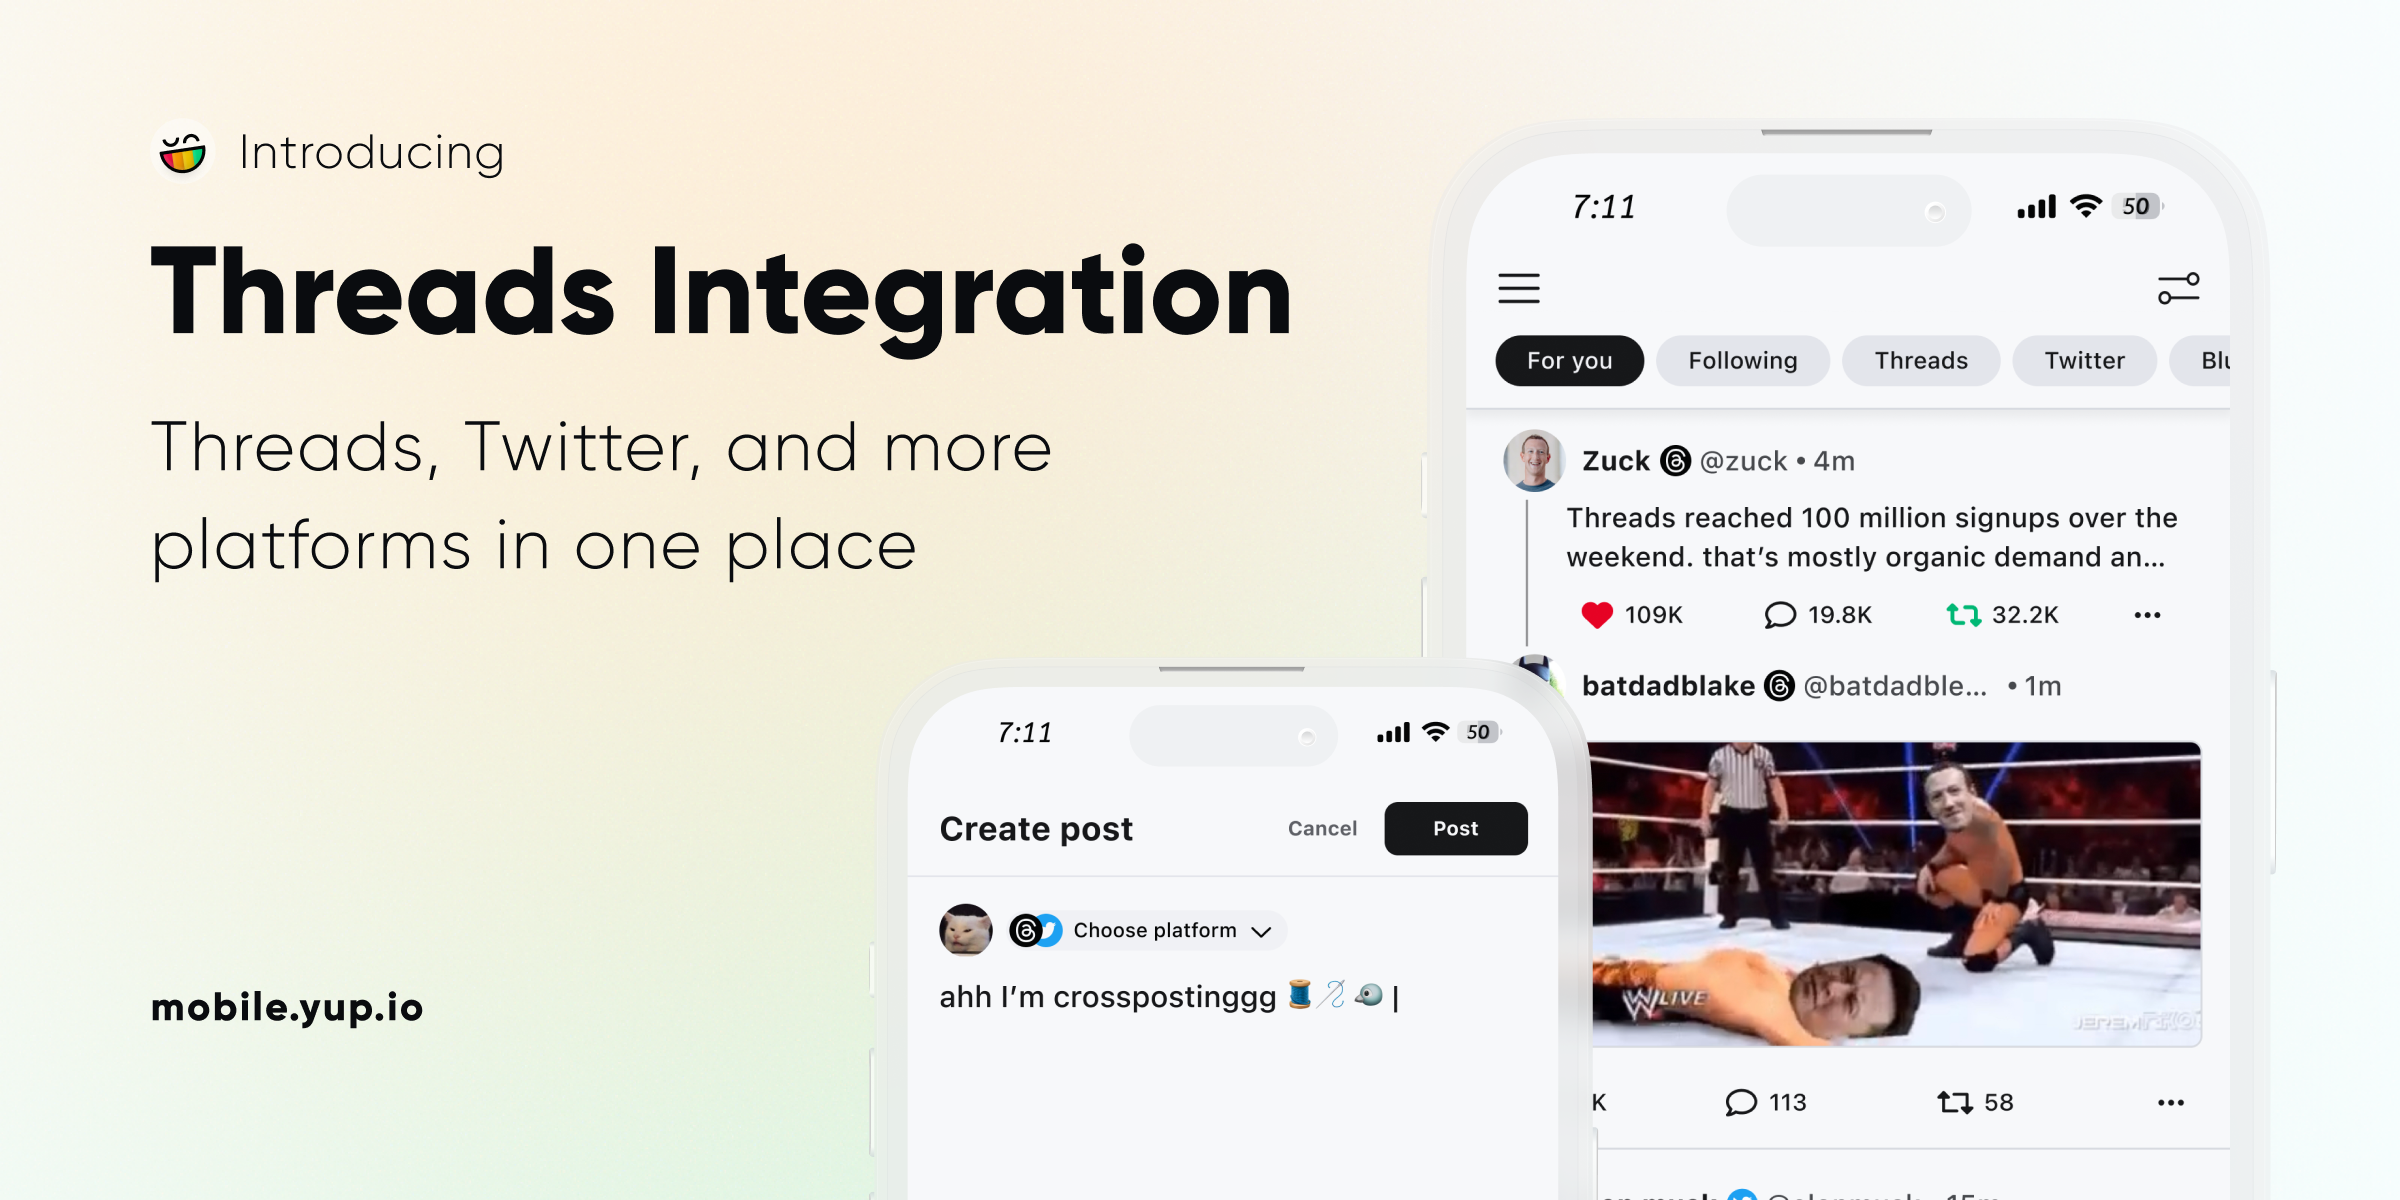
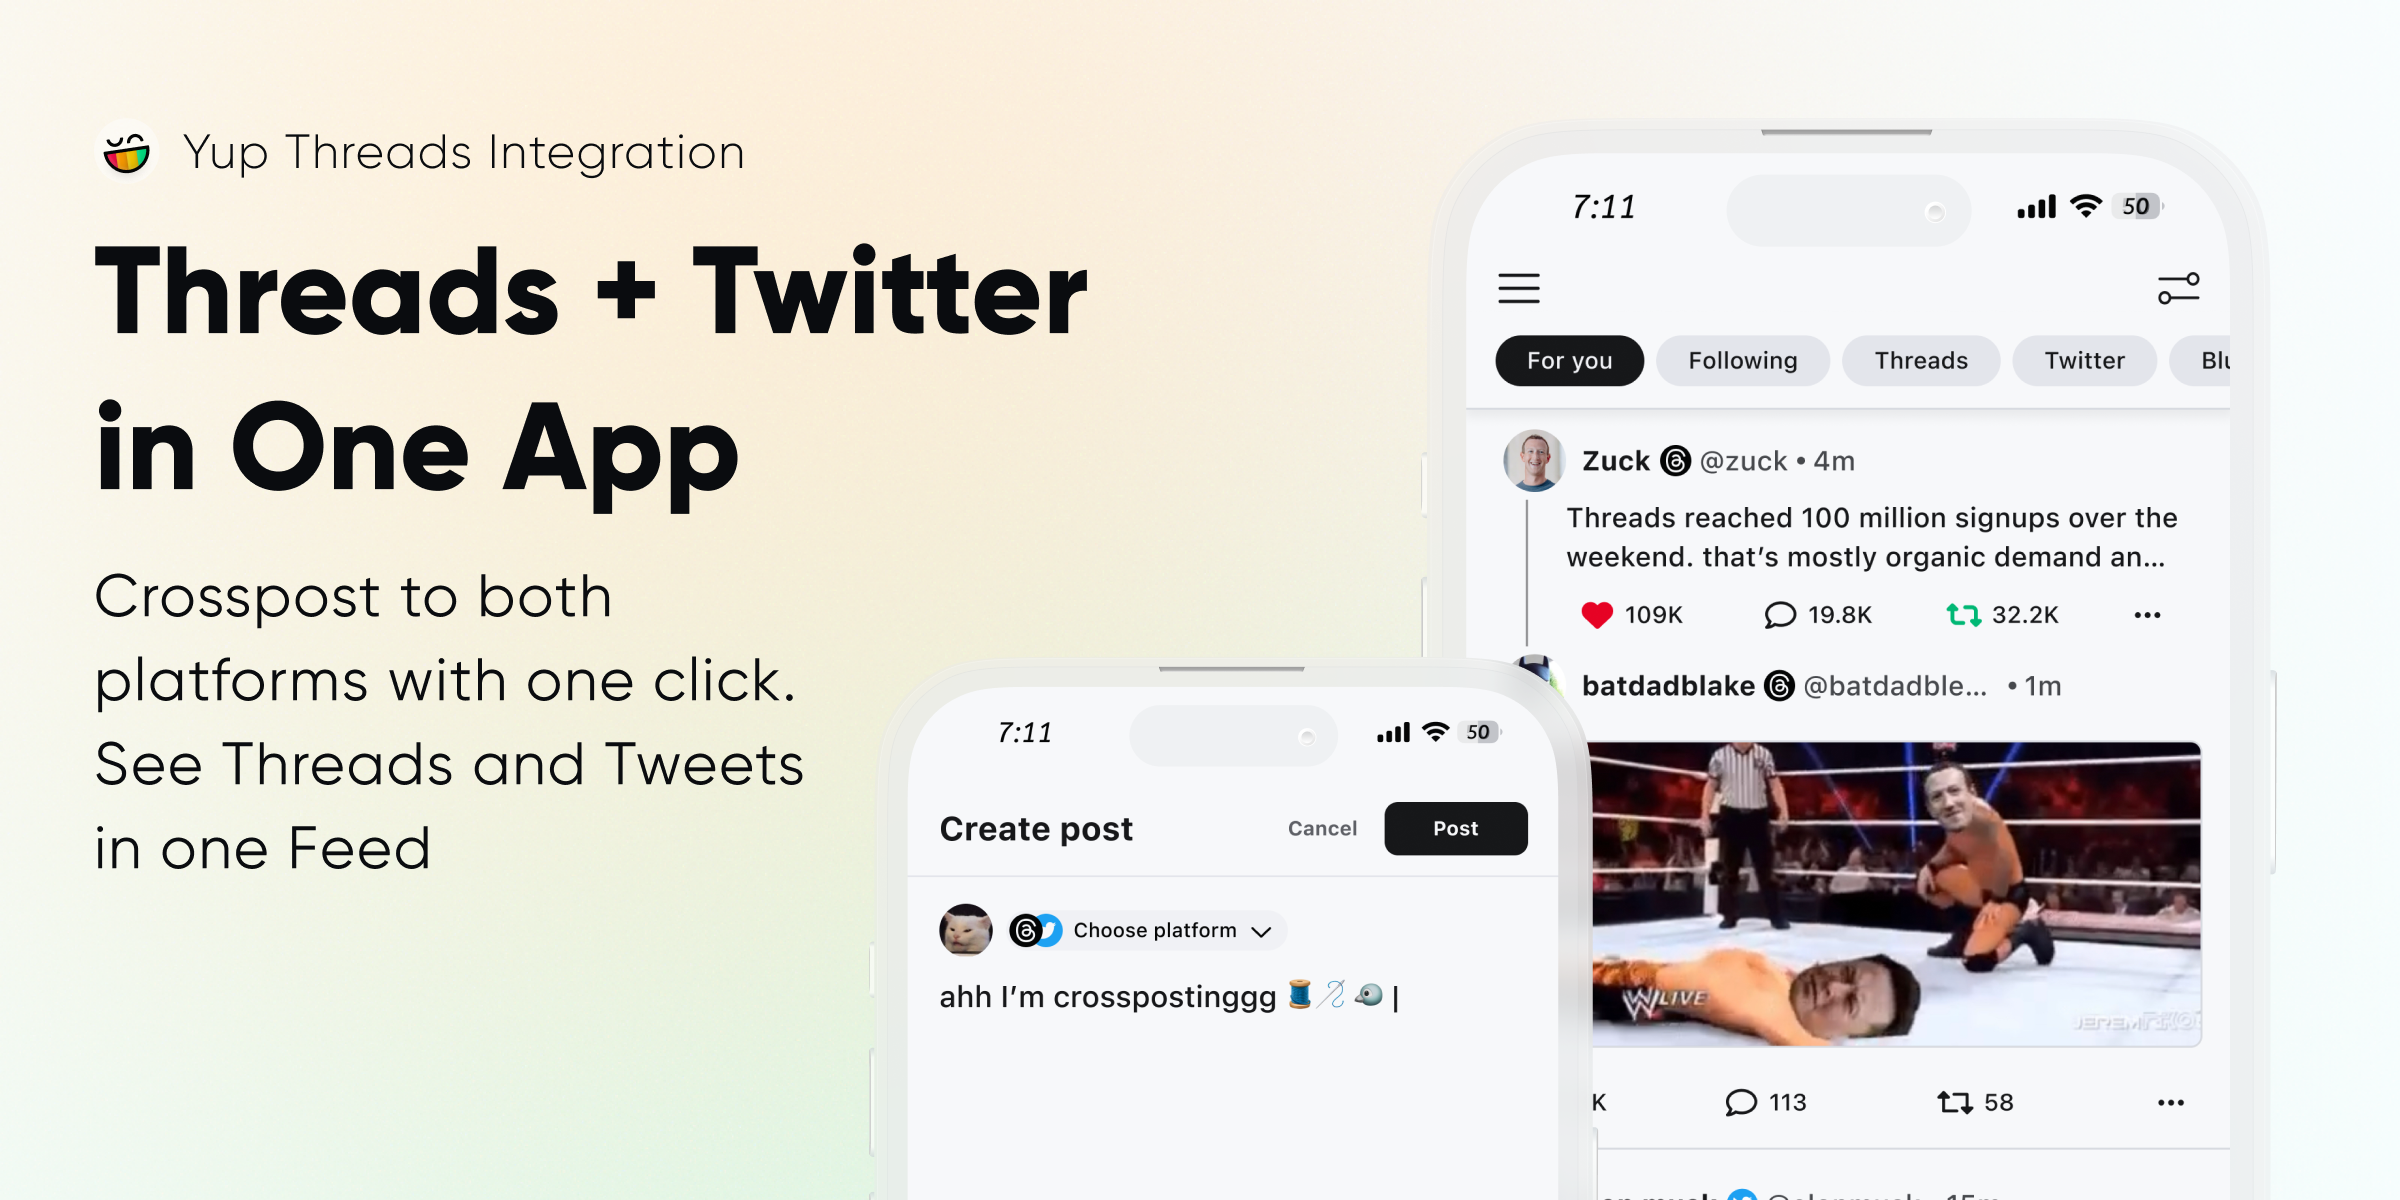
updating to match

diff --git a/threads.html b/threads.html
@@ -20,7 +20,10 @@
       property="og:image"
       content="https://yup.io/assets/thumbnailthreads.png"
     />
-    <meta property="og:site_name" content="Threads + Twitter in 1 App | Yup" />
+    <meta
+      property="og:site_name"
+      content="Threads + Twitter in One App | Yup"
+    />
     <meta
       name="Description"
       content="Crosspost to both platforms with one click. Threads and Tweets in one feed, plus so much more."
@@ -227,6 +230,19 @@
       }
       .fade-out {
         opacity: 0;
+      }
+      .mobileAnimation {
+        border-radius: 5rem;
+      }
+      @media screen and (max-width: 600px) {
+        .mobileAnimation {
+          border-radius: 4.2rem !important;
+        }
+      }
+      @media screen and (max-width: 1024px) {
+        .mobileAnimation {
+          border-radius: 8rem;
+        }
       }
     </style>
   </head>
@@ -477,7 +493,7 @@
                     </div>
                   </div>
                   <h1 class="margin-top-1 margin-bottom-2 ae-1 fromLeft">
-                    Threads + Twitter <br />in 1 App
+                    Threads + Twitter <br />in One App
                   </h1>
                   <p class="ae-2 fromLeft hideForPhablet">
                     <span class="opacity-6"
@@ -493,7 +509,7 @@
                       Threads and Tweets in one feed, plus so much more.</span
                     >
                   </p>
-                  <a href="https://yupio.typeform.com/to/lXQyUc5e">
+                  <a href="https://yupio.typeform.com/to/b3dFP7cJ">
                     <button
                       class="button rounded-square small gradient ae-3 main margin-bottom-2 hideForPhablet"
                       style="
@@ -513,22 +529,46 @@
                 <li class="col-1-12"></li>
                 <li class="col-6-12" style="align-items: center">
                   <div
-                    class="ae-4 fromCenter"
+                    class="ae-4 fromCenter mobileAnimation"
                     style="
-                      border-radius: 4.2rem;
                       overflow: hidden;
                       border: 6px solid #e7e8ea;
-                      display: inline-block;
+                      display: inline-block !important;
                       margin-bottom: -110%;
                       max-width: 80vw;
                     "
                   >
                     <img
-                      src="assets/testgif.gif"
+                      src="assets/threadspost.gif"
                       data-action="zoom"
                       alt="iPhone App"
+                      style="
+                        border: 6px solid #e7e8ea;
+                        box-shadow: inset 10px 10px 52px 52px #e7e8ea;
+                      "
                     />
                   </div>
+                  <!-- <div
+                    class="ae-4 fromCenter hideForDesktop hideForTablet showForMobile hideForPhablet"
+                    style="
+                      border-radius: 4em;
+                      overflow: hidden;
+                      border: 6px solid #e7e8ea;
+                      display: inline-block !important;
+                      margin-bottom: -110%;
+                      max-width: 80vw;
+                    "
+                  >
+                    <img
+                      src="assets/threadspost.gif"
+                      data-action="zoom"
+                      alt="iPhone App"
+                      style="
+                        border: 6px solid #e7e8ea;
+                        box-shadow: inset 10px 10px 52px 52px #e7e8ea;
+                      "
+                    />
+                  </div> -->
                 </li>
               </ul>
             </div>
